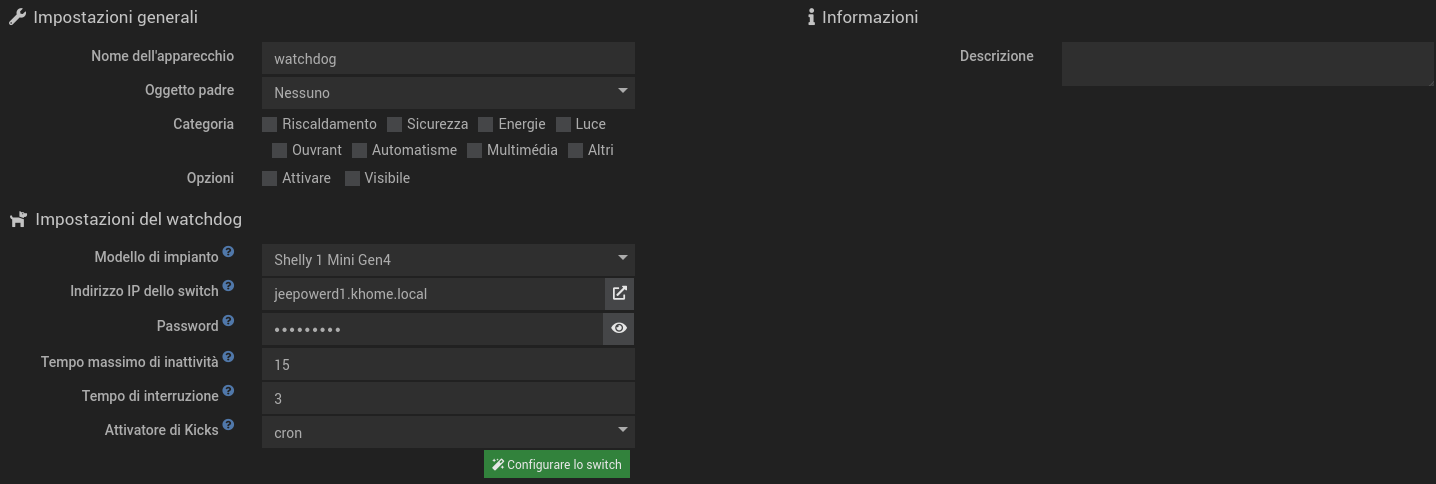
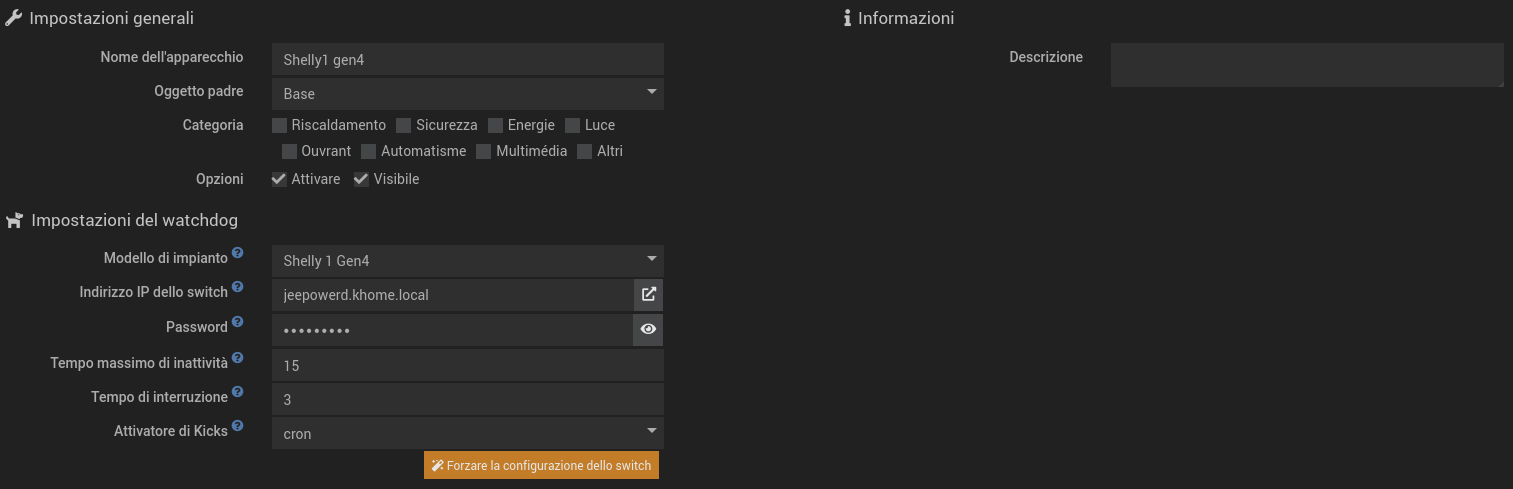
jeewatchdog avec powerStrip

diff --git a/plugins/jeewatchdog/fr_FR/index.md b/plugins/jeewatchdog/fr_FR/index.md
@@ -45,6 +45,8 @@ Le plugin est prévu pour fonctionner avec les appareils suivants:
 + [Shelly 1 Mini Gen3](https://www.shelly.com/fr/products/shelly-1-mini-gen3)
 + [Shelly 1 Gen4](https://www.shelly.com/fr/products/shelly-1-gen4)
 + [Shelly 1 Mini Gen4 ](https://www.shelly.com/fr/products/shelly-1-mini-gen4)
++ [Shelly Power Strip 4 Gen4](https://www.shelly.com/fr/products/shelly-power-strip-4-gen4)
+(expérimental)
 
 > :bulb: Le plugin a été testé avec un **Shelly plus 1** et un **Shelly Gen4**. Tout retour
 d'expérience avec les autres appareils est le bienvenu.
@@ -178,12 +180,12 @@ Durée, exprimée en secondes, de la coupure de l'alimentation.
 Indique si le Kick doit être envoyé au Shelly par un **cron** et un **scénario**. Voir explications
 plus bas
 
-+ ***Bouton configurer le switch***\
-Bouton pour envoyer la configuration au Shelly. L'équipement doit avoir été sauvegardé avant
++ ***Bouton***  `Forcer la configuration du switch`\
+Bouton forcer la configuration au Shelly. L'équipement doit avoir été sauvegardé avant
 de cliquer sur ce bouton.
 
-> :warning: Ne pas oublier de clicker sur le bouton **Configurer le switch** après avoir sauvegardé
-> l'équipement si un paramètre du watchdog a été modifié. 
+> :bulb: Si nécessaire, le Shelly sera automatiquement (re)configuré durant la sauvegarde de
+> l'équipement.
 
 # Les commandes
 {: .num}
